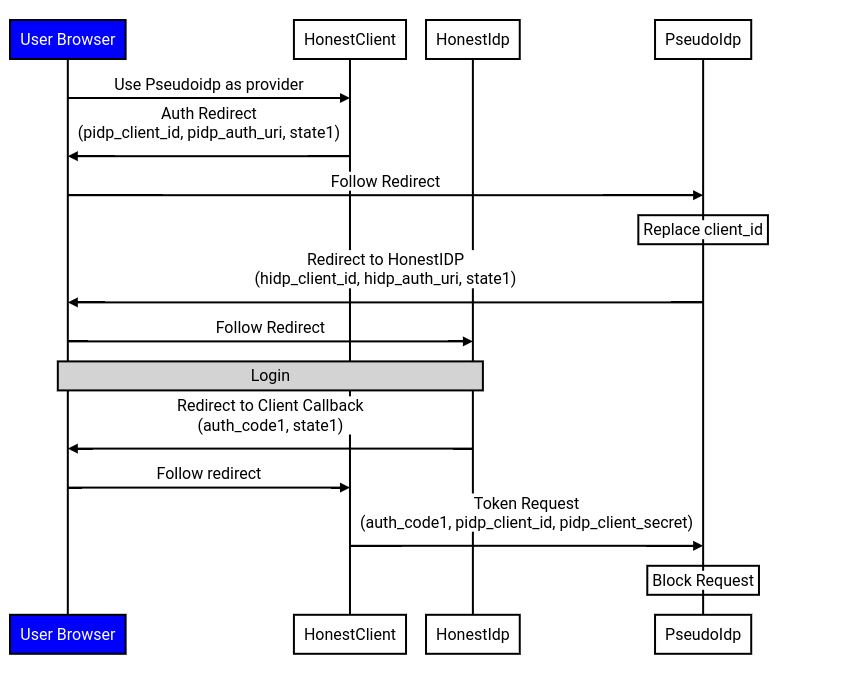
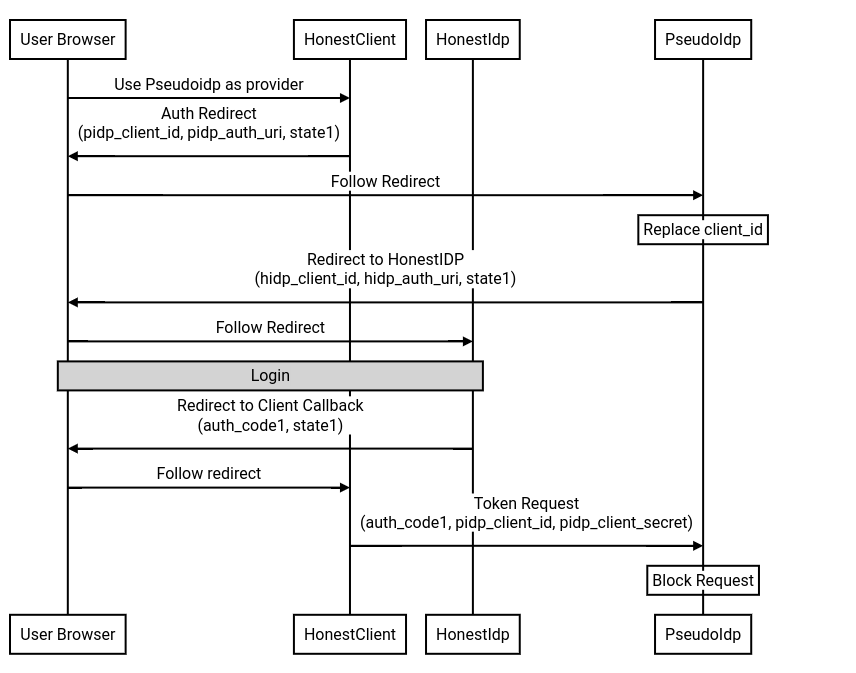
Fix dark mode sequence diagrams

Changed region(s): [[0.0, 0.9049, 0.1519, 0.9673], [0.0, 0.0312, 0.1519, 0.0936]]

diff --git a/README.md b/README.md
@@ -563,7 +563,8 @@ omitting the Nonce, if any.
 [Daniel Fett's blog](https://danielfett.de/2020/05/04/mix-up-revisited/) has
 in-depth coverage of Mix-up Attacks and mitigations.
 
-![Mix-up attack](docs/mixup_simple.png "Mix-up attack")
+![Mix-up attack](docs/mixup_simple.png#gh-light-mode-only "Mix-up attack")
+![Mix-up attack](docs/mixup_simple_dm.png#gh-dark-mode-only "Mix-up attack")
 
 ```
 "auth_action": {
@@ -618,7 +619,8 @@ Mix Up version above, however the issue still exists using a Chosen Nonce
 variation. Here a session is started with the valid IdP and the nonce from that
 transaction is inserted into the flow for the Pseudo IdP.
 
-![Chosen nonce mix-up attack](docs/mixup_nonce.png "Chosen nonce mix-up attack")
+![Chosen nonce mix-up attack](docs/mixup_nonce.png#gh-light-mode-only "Chosen nonce mix-up attack")
+![Chosen nonce mix-up attack](docs/mixup_nonce_dm.png#gh-dark-mode-only "Chosen nonce mix-up attack")
 
 ```
 "auth_action": {
